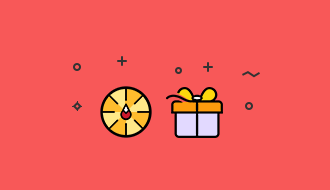
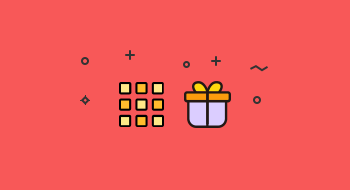
添加积分入口

diff --git a/program.html b/program.html
@@ -160,6 +160,13 @@
             </a>
           </li>
           <li class="act_x_item">
+            <a href="apply/integral">
+              <img src="images/application_21.jpg" alt="">
+              <h3 class="hot_title">积分功能</h3>
+              <p class="hot_text">交易、评论、点赞、分享得积分，提升用户活跃度</p>
+            </a>
+          </li>
+          <li class="act_x_item">
             <a href="javascript:;">
               <img src="images/application_11.png" alt="">
               <h3 class="hot_title">自定义Logo</h3>
